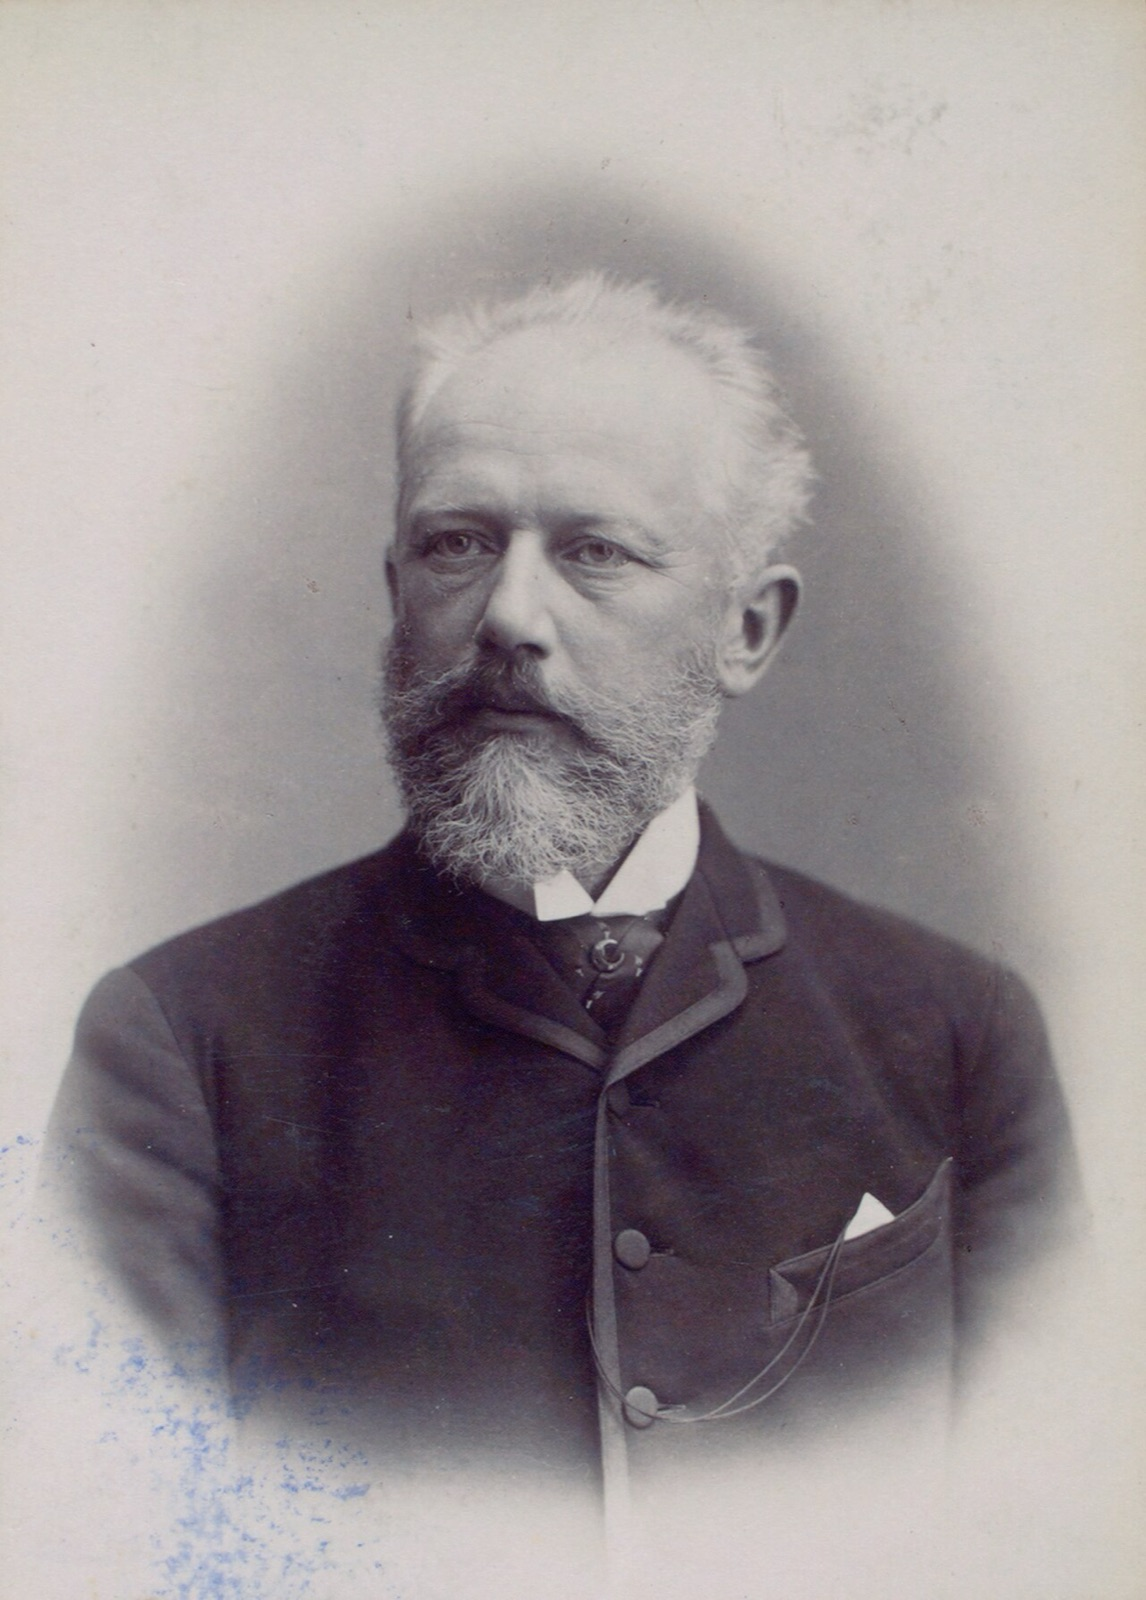
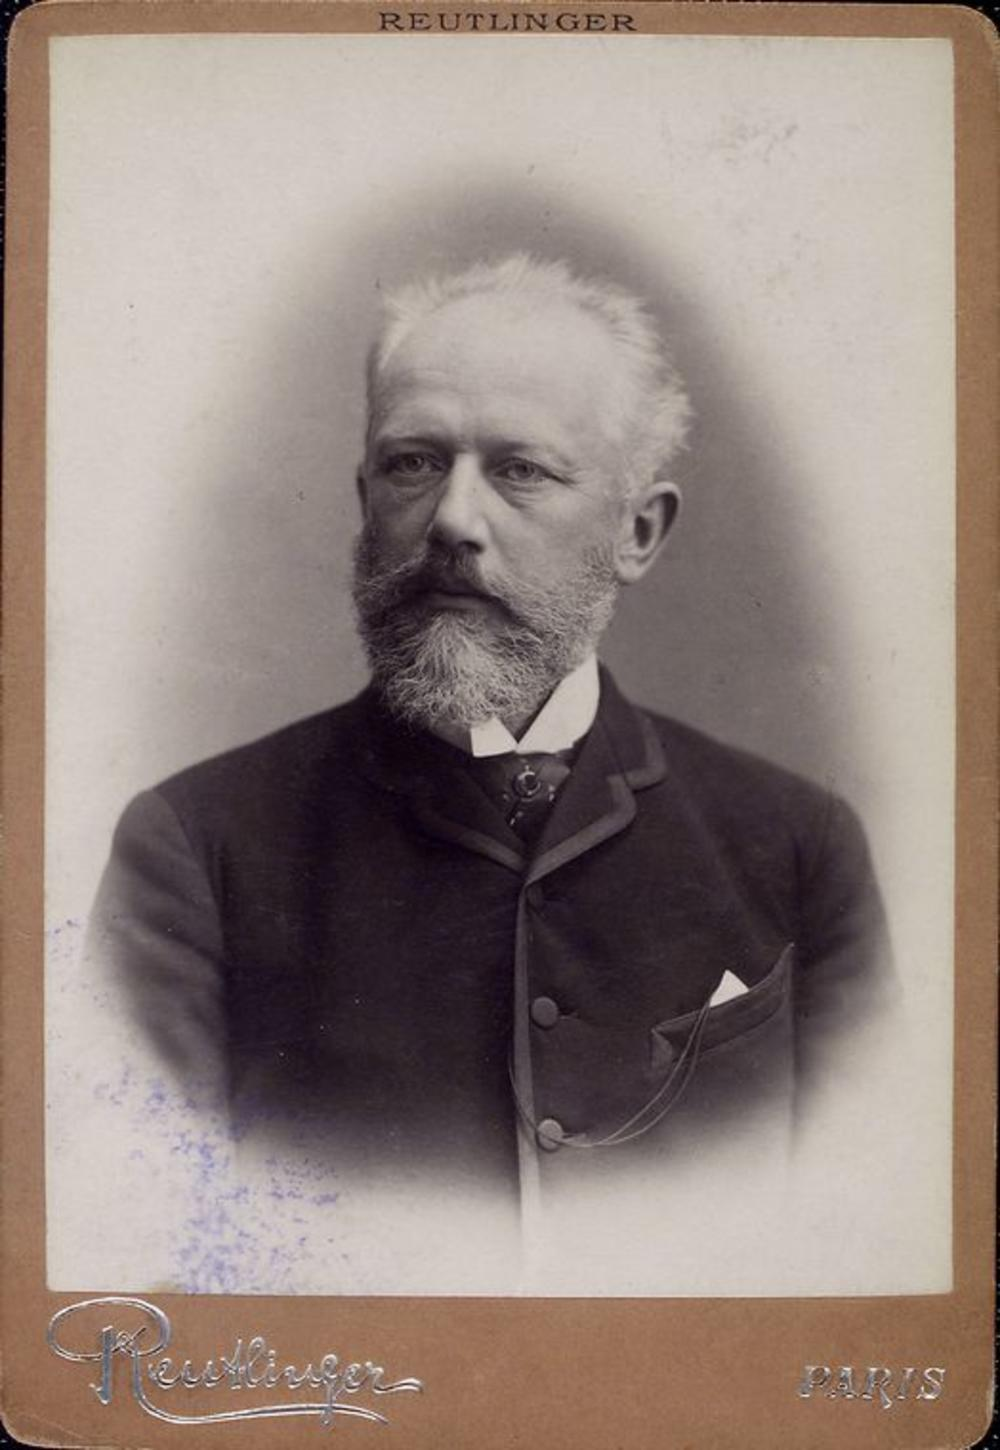
Face Value +6: Nobunaga, Linnaeus, Catherine de Medici, Tchaikovsky, Humboldt, Delacroix

diff --git a/sw.js b/sw.js
@@ -1,6 +1,6 @@
 // Chronicle service worker: precache everything, serve cache-first.
 // Bump VERSION on every deploy to refresh clients.
-const VERSION = 'chronicle-v74';
+const VERSION = 'chronicle-v75';
 
 const ASSETS = [
   './',
